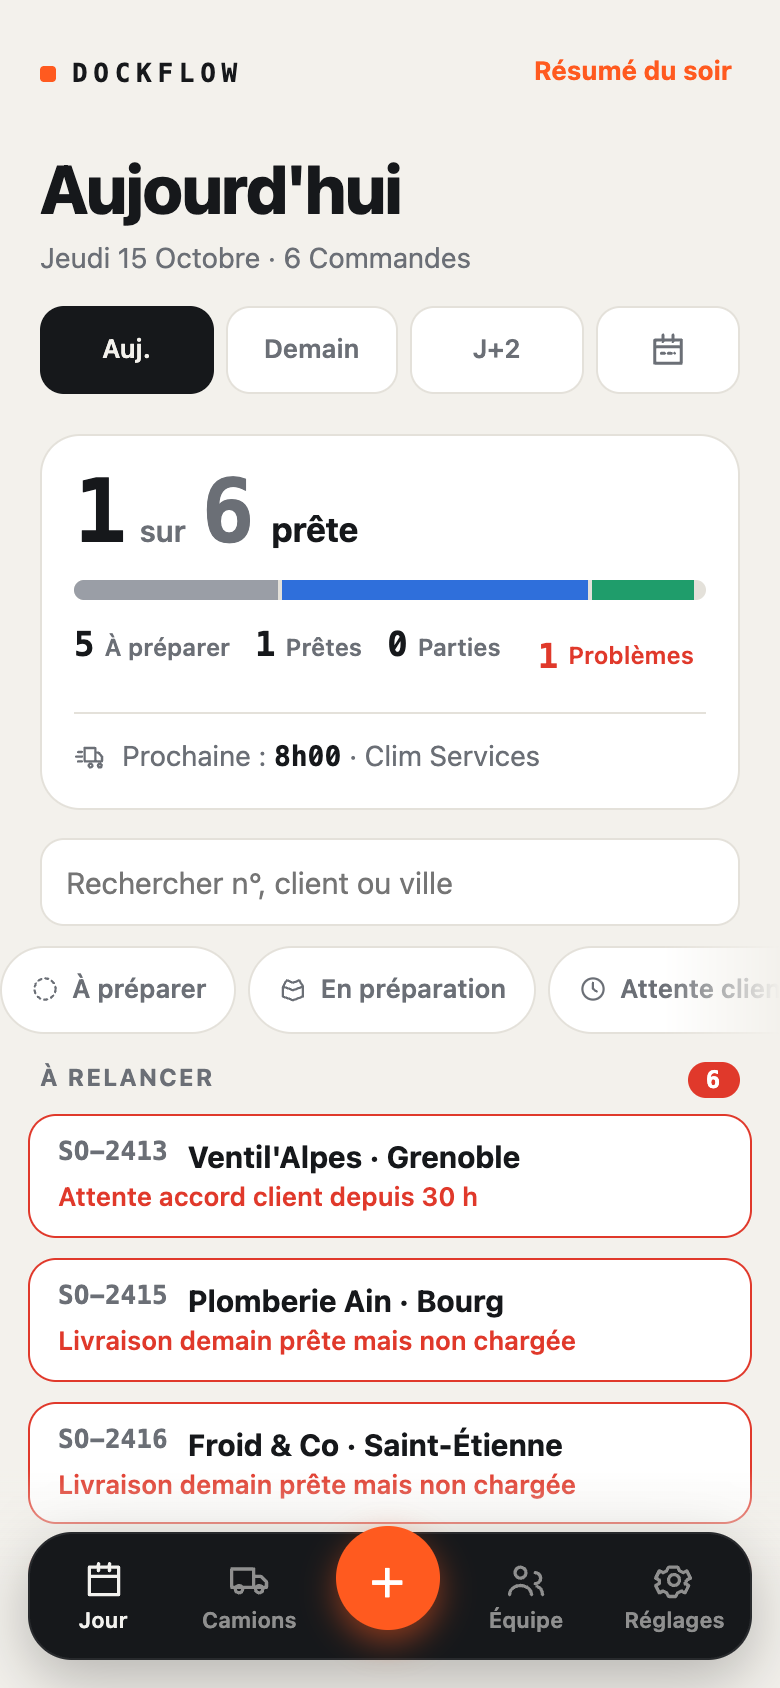
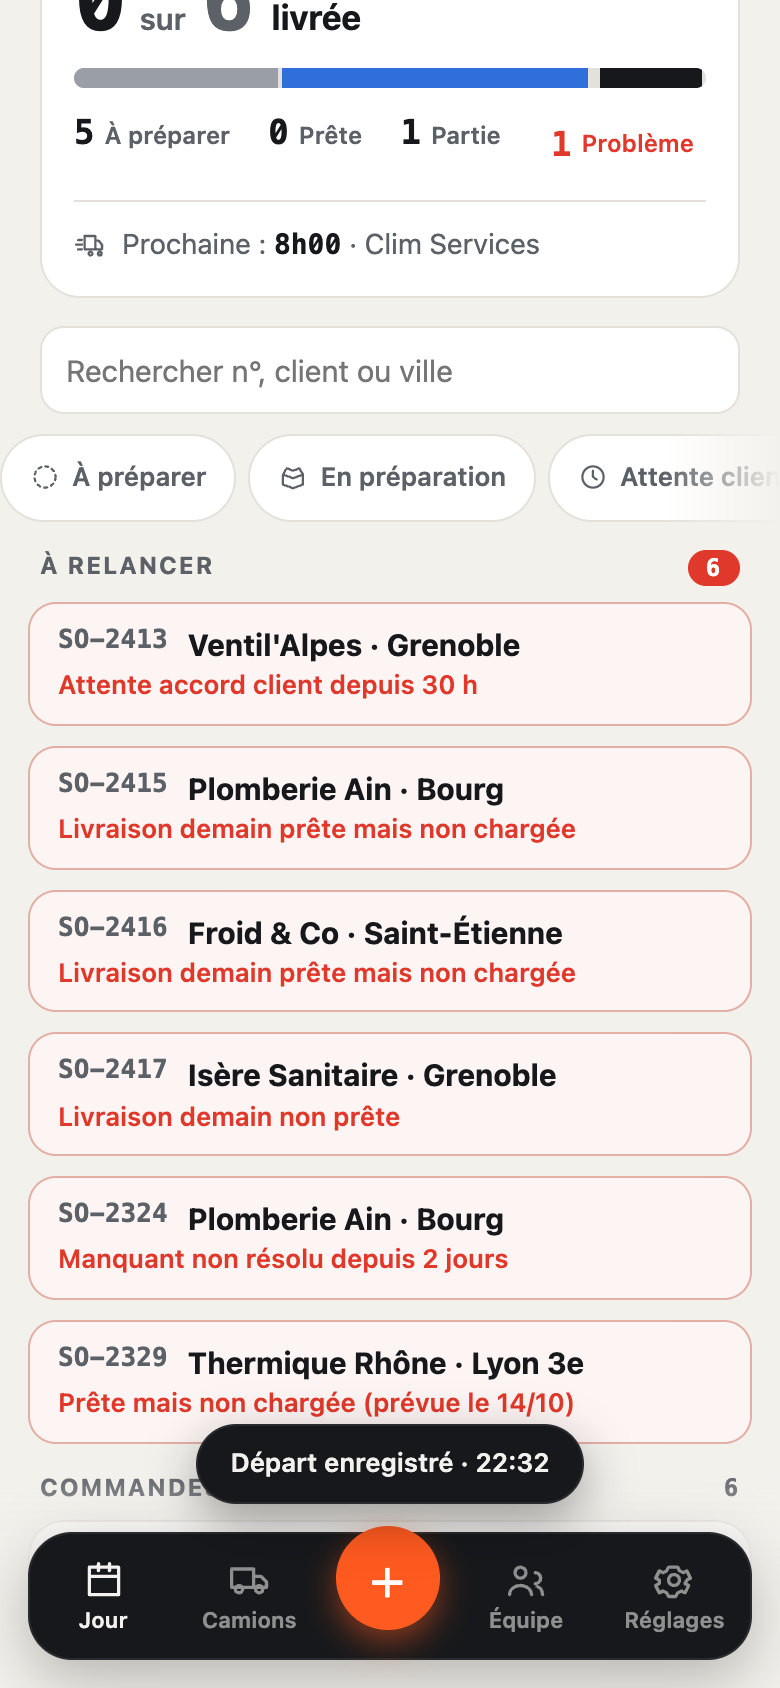
DockFlow V1.3 lot 1 : icônes, tableau de bord, cartes dépliables, actions rapides, animations (90 tests OK)

diff --git a/src/style.css b/src/style.css
@@ -1,6 +1,6 @@
-:root{--bg:#f3f1ec;--card:#fff;--ink:#16181b;--mut:#6b6f76;--line:#e4e1da;--acc:#ff5a1f;--prep:#2f6fdb;--wait:#b26be0;--ready:#1f9d6b;--load:#0e8f9a;--go:#16181b;--bad:#e0392b;--todo:#9a9ea6;--mono:ui-monospace,"SF Mono",Menlo,monospace}
-@media(prefers-color-scheme:dark){:root:not(.light){--bg:#0f1012;--card:#1a1c1f;--ink:#f2f1ee;--mut:#8d9198;--line:#2a2d31;--go:#f2f1ee}}
-:root.dark{--bg:#0f1012;--card:#1a1c1f;--ink:#f2f1ee;--mut:#8d9198;--line:#2a2d31;--go:#f2f1ee}
+:root{--bg:#f3f1ec;--card:#fff;--ink:#16181b;--mut:#5c6067;--line:#e4e1da;--acc:#ff5a1f;--prep:#2f6fdb;--wait:#b26be0;--ready:#1f9d6b;--load:#0e8f9a;--go:#16181b;--bad:#e0392b;--todo:#9a9ea6;--mono:ui-monospace,"SF Mono",Menlo,monospace}
+@media(prefers-color-scheme:dark){:root:not(.light){--bg:#0f1012;--card:#1a1c1f;--ink:#f2f1ee;--mut:#a3a7ae;--line:#2a2d31;--go:#f2f1ee}}
+:root.dark{--bg:#0f1012;--card:#1a1c1f;--ink:#f2f1ee;--mut:#a3a7ae;--line:#2a2d31;--go:#f2f1ee}
 *{box-sizing:border-box;margin:0;-webkit-tap-highlight-color:transparent}
 html,body,#root{height:100%}
 body{font:15px/1.35 -apple-system,"SF Pro Text",system-ui,sans-serif;background:var(--bg);color:var(--ink);overscroll-behavior:none}
@@ -187,3 +187,22 @@ select{appearance:none;-webkit-appearance:none;padding-right:40px;background-ima
 .flash{position:absolute;inset:0;display:grid;place-items:center;pointer-events:none;z-index:3;border-radius:18px;box-shadow:inset 0 0 0 2px #1f9d6b}
 .flash i{position:absolute;inset:0;background:#1f9d6b}
 .flash span{position:relative;display:grid;place-items:center;background:var(--card);border-radius:50%;width:54px;height:54px}
+
+.toast{pointer-events:none}
+.toast .undo{pointer-events:auto}
+
+/* --- V1.3 polish --- */
+.flash{place-items:start end;padding:10px 12px}
+.flag button{background:transparent;color:var(--bad);border:1.5px solid color-mix(in srgb,var(--bad) 45%,transparent)}
+.alert{border-color:color-mix(in srgb,var(--bad) 30%,var(--line));background:color-mix(in srgb,var(--bad) 5%,var(--card))}
+.q2{display:grid!important;grid-template-columns:repeat(3,1fr);gap:8px}
+.q2 .btn{min-width:0!important;padding:0 8px}
+.sub,.meta{text-wrap:pretty}
+.toast{background:#16181b!important;color:#f2f1ee!important;border:1px solid rgba(255,255,255,.08)}
+.toast{max-width:min(360px,calc(100% - 32px))}
+
+.flash{place-items:center end;padding:0 14px}
+.flash span{background:var(--card);border-radius:50%;box-shadow:0 0 0 6px var(--card)}
+
+.st svg{transform-origin:center}
+.flash{box-shadow:inset 0 0 0 2px #1f9d6b,0 0 0 4px color-mix(in srgb,#1f9d6b 18%,transparent)}

diff --git a/src/Card.jsx b/src/Card.jsx
@@ -1,7 +1,7 @@
 import { memo, useEffect, useRef, useState } from 'react'
 import { AnimatePresence, motion, useMotionValue, useTransform, animate } from 'motion/react'
 import { STATUS, NEXT, hasIssue, resolve } from './store'
-import { where } from './pack'
+import { where, formatPack } from './pack'
 import { fmtDM } from './dates'
 import { StatusIconMorph } from './StatusIcon'
 import { CardFlash, buzz } from './Celebrate'
@@ -38,7 +38,7 @@ function CardBase({ o, team, open, hint, onToggle, onOpen, onProblem, onMenu, on
   return (
     <motion.div layout={dragging.current ? false : 'position'} initial={{ opacity: 0 }} animate={{ opacity: 1 }}
       exit={{ opacity: 0, transition: { duration: 0.12 } }} transition={{ duration: 0.14 }}
-      className={'swipe' + (o.status === 'cancel' ? ' cancel' : '') + (open ? ' open' : '')} style={{ background: 'var(--card)' }} data-card={o.num}>
+      className={'swipe' + (o.status === 'cancel' ? ' cancel' : '') + (open ? ' open' : '')} style={{ background: "var(--card)" }} data-card={o.num} data-pack={formatPack(o)} title={o.num}>
       <div className="under">
         <motion.span style={{ opacity: bgR, background: nxt ? STATUS[nxt].c : 'transparent', position: 'absolute', inset: 0, display: 'flex', alignItems: 'center', paddingLeft: 20 }}>
           {nxt ? '→ ' + (nxt === 'ready' ? 'Fin de préparation' : STATUS[nxt].l) : ''}

diff --git a/src/Dash.jsx b/src/Dash.jsx
@@ -16,8 +16,8 @@ export function dashStats(os) {
   const next = all.filter((o) => o.time && !['done', 'fail', 'moved'].includes(o.status)).sort((a, b) => a.time.localeCompare(b.time))[0]
   return {
     total: all.length, started, main: started ? nDone : nReady, label: started ? 'livrée' : 'prête', next,
-    chips: [['À préparer', n((o) => ['todo', 'prep', 'wait'].includes(o.status)), 'todo'], ['Prêtes', n((o) => ['ready', 'loaded'].includes(o.status)), 'ready'],
-      ['Parties', n((o) => ['go', 'done'].includes(o.status)), 'go'], ['Problèmes', n(hasIssue), 'issue']],
+    chips: [['À préparer', n((o) => ['todo', 'prep', 'wait'].includes(o.status)), 'todo'], ['Prête', n((o) => ['ready', 'loaded'].includes(o.status)), 'ready'],
+      ['Partie', n((o) => ['go', 'done'].includes(o.status)), 'go'], ['Problème', n(hasIssue), 'issue']].map(([l, v, k]) => [k === 'todo' || v < 2 ? l : l + 's', v, k]),
     seg: [['#9a9ea6', n((o) => o.status === 'todo')], ['#2f6fdb', n((o) => ['prep', 'wait'].includes(o.status))], ['#1f9d6b', n((o) => o.status === 'ready')],
       ['#0e8f9a', n((o) => o.status === 'loaded')], ['#16181b', n((o) => o.status === 'go')], ['#117a52', n((o) => o.status === 'done')]],
   }

diff --git a/src/Celebrate.jsx b/src/Celebrate.jsx
@@ -18,7 +18,6 @@ export function CardFlash() {
   return (
     <motion.div className="flash" data-flash initial={{ opacity: 0 }} animate={{ opacity: [0, 1, 1, 0] }} transition={{ duration: rm ? 0.4 : 1.1, times: [0, 0.12, 0.7, 1] }}>
       <motion.i initial={{ opacity: 0 }} animate={{ opacity: [0, 0.22, 0] }} transition={{ duration: 0.7 }} />
-      <motion.span initial={{ scale: 0.6 }} animate={{ scale: 1 }} transition={{ type: 'spring', stiffness: 600, damping: 26 }}><Tick size={34} /></motion.span>
     </motion.div>
   )
 }
